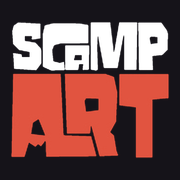
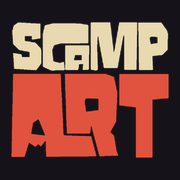
update

Changed region(s): [[0.0556, 0.1111, 0.9444, 0.4167]]

diff --git a/index.html b/index.html
@@ -24,9 +24,9 @@
   :root {
     --bg: #151319;
     --bg-raised: #1E1C24;
-    --paper: #EFE7D4;
-    --ink: #F4F1E9;
-    --ink-soft: #9C978D;
+    --paper: #E8D9B0;
+    --ink: #E8D9B0;
+    --ink-soft: #B6B1A6;
     --red: #E1503B;
     --red-ink: #C43D2B;
     --line: rgba(244,241,233,0.14);
@@ -179,6 +179,23 @@
   .cthanks-logo { width: 130px; height: auto; display: block; margin: 0 auto 22px; }
   .cthanks h3 { font-family: var(--font-display); font-weight: 900; text-transform: uppercase; font-size: 34px; margin: 0 0 8px; color: var(--red); }
   @media (max-width: 640px) { .cbox { padding: 40px 20px 26px; } .cform { grid-template-columns: 1fr; } }
+  .has-drop { position: relative; }
+  .has-drop > .drop-toggle { font-family: var(--font-mono); font-size: 11px; line-height: 1; cursor: pointer; color: inherit; background: transparent; border: 0; padding: 0 2px; }
+  .toplinks .has-drop { display: inline-flex; align-items: center; gap: 3px; }
+  .toplinks .drop-toggle { color: var(--ink-soft); }
+  .toplinks .has-drop.open .drop-toggle { color: var(--red); }
+  .toplinks .dropdown { list-style: none; margin: 0; padding: 8px 0; position: fixed; top: 0; left: 0; min-width: 190px; background: var(--bg-raised); border: 1px solid var(--line-strong); border-radius: 10px; box-shadow: 0 16px 30px rgba(0,0,0,0.5); opacity: 0; pointer-events: none; transition: opacity .15s ease; z-index: 60; }
+  .toplinks .dropdown a { display: block; padding: 9px 18px; border-bottom: 0 !important; font-size: 12px; letter-spacing: 0.06em; }
+  .toplinks .dropdown a:hover { color: var(--red); background: rgba(225,80,59,0.08); }
+  .toplinks .has-drop.open .dropdown { opacity: 1; pointer-events: auto; }
+  .bucket-drop { display: inline-flex; align-items: center; }
+  .bucket-drop > button[data-bucket] { border-top-right-radius: 0; border-bottom-right-radius: 0; }
+  .bucket-drop > .drop-toggle { border: 1px solid var(--line-strong); border-left: 0; border-top-right-radius: 999px; border-bottom-right-radius: 999px; padding: 9px 12px 9px 6px; color: var(--ink-soft); align-self: stretch; }
+  .bucket-drop.open > .drop-toggle { color: var(--red); }
+  .bucket-drop > button[aria-pressed="true"] ~ .drop-toggle { border-color: var(--red); }
+  .bucket-drop .dropdown { display: flex; flex-direction: column; gap: 2px; padding: 8px; position: fixed; top: 0; left: 0; min-width: 180px; background: var(--bg-raised); border: 1px solid var(--line-strong); border-radius: 10px; box-shadow: 0 16px 30px rgba(0,0,0,0.5); opacity: 0; pointer-events: none; transition: opacity .15s ease; z-index: 60; }
+  .bucket-drop .dropdown button { width: 100%; text-align: left; border-radius: 6px !important; }
+  .bucket-drop.open .dropdown { opacity: 1; pointer-events: auto; }
   .subnav { position: sticky; top: 138px; z-index: 15; display: flex; flex-wrap: wrap; gap: 8px 10px; align-items: center; margin: 0 0 34px; padding: 10px 16px; box-shadow: 0 10px 18px -8px rgba(0,0,0,0.55); background: var(--bg-raised); border: 1px solid var(--line-strong); border-radius: 14px; }
   .subnav-label { font-family: var(--font-body); font-size: 13px; font-weight: 600; color: var(--ink); margin-right: 8px; }
   .subnav-label span { color: var(--ink-soft); font-weight: 400; margin-left: 6px; }
@@ -253,10 +270,15 @@
   <ul class="toplinks">
     <li><a href="#work" data-jump="design">Design</a></li>
     <li><a href="#work" data-jump="instructional_design">Instructional Design</a></li>
-    <li><a href="#work" data-jump="illustration">Illustration</a></li>
-    <li><a href="#work" data-jump="caricature">Caricature</a></li>
+    <li class="has-drop" id="menuIllusDrop">
+      <a href="#work" data-jump="illustration">Illustration</a><button type="button" class="drop-toggle" aria-expanded="false" aria-label="Show more illustration sections">&#9662;</button>
+      <ul class="dropdown" role="menu">
+        <li><a href="#work" data-jump="illustration" role="menuitem">Illustration</a></li>
+        <li><a href="#work" data-jump="caricature" role="menuitem">Caricature</a></li>
+        <li><a href="#work" data-jump="misc" role="menuitem">Pen and Paint</a></li>
+      </ul>
+    </li>
     <li><a href="#work" data-jump="animation">Animation</a></li>
-    <li><a href="#work" data-jump="misc">Pen and Paint</a></li>
     <li><a href="#contact" id="menuContact" class="menu-contact">Contact</a></li>
   </ul>
 </div>
@@ -319,10 +341,14 @@
         <button type="button" role="tab" aria-pressed="true" data-bucket="all">All Work</button>
         <button type="button" role="tab" aria-pressed="false" data-bucket="design">Design</button>
         <button type="button" role="tab" aria-pressed="false" data-bucket="instructional_design">Instructional Design</button>
-        <button type="button" role="tab" aria-pressed="false" data-bucket="illustration">Illustration</button>
-        <button type="button" role="tab" aria-pressed="false" data-bucket="caricature">Caricature</button>
+        <span class="has-drop bucket-drop" id="filterIllusDrop">
+          <button type="button" role="tab" aria-pressed="false" data-bucket="illustration" data-family="illustration,caricature,misc">Illustration</button><button type="button" class="drop-toggle" aria-expanded="false" aria-label="Show more illustration sections">&#9662;</button>
+          <span class="dropdown" role="menu">
+            <button type="button" role="menuitem tab" aria-pressed="false" data-bucket="caricature">Caricature</button>
+            <button type="button" role="menuitem tab" aria-pressed="false" data-bucket="misc">Pen and Paint</button>
+          </span>
+        </span>
         <button type="button" role="tab" aria-pressed="false" data-bucket="animation">Animation</button>
-        <button type="button" role="tab" aria-pressed="false" data-bucket="misc">Pen and Paint</button>
       </nav>
     </div>
 
@@ -392,6 +418,57 @@
 <script>
 (function () {
   "use strict";
+  (function () {
+    var ids = ["menuIllusDrop", "filterIllusDrop"];
+    var wraps = ids.map(function (id) { return document.getElementById(id); }).filter(Boolean);
+    function closeAll(except) {
+      wraps.forEach(function (w) {
+        if (w === except) return;
+        w.classList.remove("open");
+        w.querySelector(".drop-toggle").setAttribute("aria-expanded", "false");
+      });
+    }
+    wraps.forEach(function (wrap) {
+      var toggle = wrap.querySelector(".drop-toggle"), panel = wrap.querySelector(".dropdown");
+      var closeTimer = null;
+      function place() {
+        var r = toggle.getBoundingClientRect();
+        var pw = panel.offsetWidth || 200;
+        var left = Math.min(r.left, window.innerWidth - pw - 12);
+        left = Math.max(12, left);
+        panel.style.left = left + "px";
+        panel.style.top = (r.bottom + 10) + "px";
+      }
+      function openIt() {
+        clearTimeout(closeTimer);
+        closeAll(wrap);
+        place();
+        wrap.classList.add("open");
+        toggle.setAttribute("aria-expanded", "true");
+      }
+      function closeIt() {
+        wrap.classList.remove("open");
+        toggle.setAttribute("aria-expanded", "false");
+      }
+      function scheduleClose() { clearTimeout(closeTimer); closeTimer = setTimeout(closeIt, 200); }
+      toggle.addEventListener("click", function (e) {
+        e.stopPropagation();
+        if (wrap.classList.contains("open")) closeIt(); else openIt();
+      });
+      wrap.addEventListener("mouseenter", function () { if (window.matchMedia && window.matchMedia("(hover: hover)").matches) openIt(); });
+      wrap.addEventListener("mouseleave", function () { if (window.matchMedia && window.matchMedia("(hover: hover)").matches) scheduleClose(); });
+      panel.addEventListener("mouseenter", function () { clearTimeout(closeTimer); });
+      panel.addEventListener("mouseleave", scheduleClose);
+      wrap.addEventListener("focusin", openIt);
+      wrap.addEventListener("focusout", function () { setTimeout(function () { if (!wrap.contains(document.activeElement)) closeIt(); }, 0); });
+      wrap._closeDrop = closeIt;
+      wrap._placeDrop = place;
+    });
+    document.addEventListener("click", function () { closeAll(); });
+    document.addEventListener("keydown", function (e) { if (e.key === "Escape") closeAll(); });
+    window.addEventListener("scroll", function () { wraps.forEach(function (w) { if (w.classList.contains("open")) w._placeDrop(); }); }, { passive: true });
+    window.addEventListener("resize", function () { wraps.forEach(function (w) { if (w.classList.contains("open")) w._placeDrop(); }); });
+  })();
   (function () {
     var modal = document.getElementById("cmodal"), form = document.getElementById("cForm");
     var status = document.getElementById("cStatus"), send = document.getElementById("cSend"), lastFocus = null;
@@ -494,7 +571,11 @@
   var currentFilter = 'all';
   function applyBucketFilter(name) {
     currentFilter = name;
-    document.querySelectorAll('.bucket-nav button').forEach(function (t) { t.setAttribute('aria-pressed', String(t.getAttribute('data-bucket') === name)); });
+    document.querySelectorAll('.bucket-nav button[data-bucket]').forEach(function (t) {
+      var family = t.getAttribute('data-family');
+      var active = family ? family.split(',').indexOf(name) !== -1 : t.getAttribute('data-bucket') === name;
+      t.setAttribute('aria-pressed', String(active));
+    });
     document.querySelectorAll('.bucket').forEach(function (b) { b.style.display = (name === 'all' || b.id === name) ? '' : 'none'; });
   }
   document.querySelectorAll('a[href="#top"]').forEach(function (a) {
@@ -514,7 +595,7 @@
     var still = window.matchMedia && window.matchMedia('(prefers-reduced-motion: reduce)').matches;
     window.scrollTo({ top: Math.max(0, y), behavior: still ? 'auto' : 'smooth' });
   }
-  document.querySelectorAll('.bucket-nav button').forEach(function (t) { t.addEventListener('click', function () { goToBucket(t.getAttribute('data-bucket')); }); });
+  document.querySelectorAll('.bucket-nav button[data-bucket]').forEach(function (t) { t.addEventListener('click', function () { goToBucket(t.getAttribute('data-bucket')); }); });
   document.querySelectorAll('a[data-jump]').forEach(function (a) { a.addEventListener('click', function (e) { e.preventDefault(); goToBucket(a.getAttribute('data-jump')); }); });
 
   fetch('/content.json', { cache: 'no-store' })
